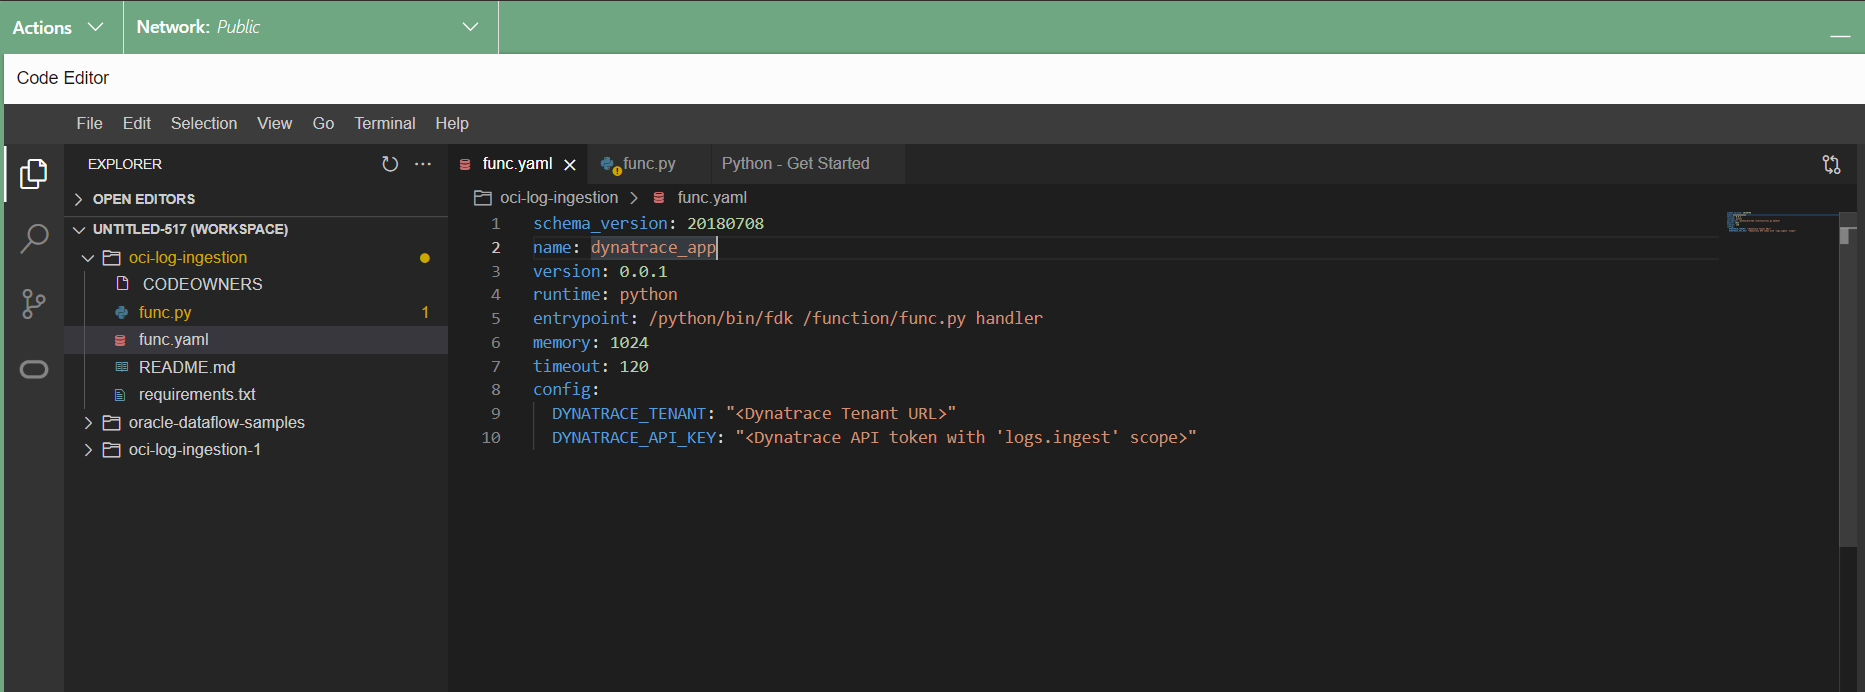
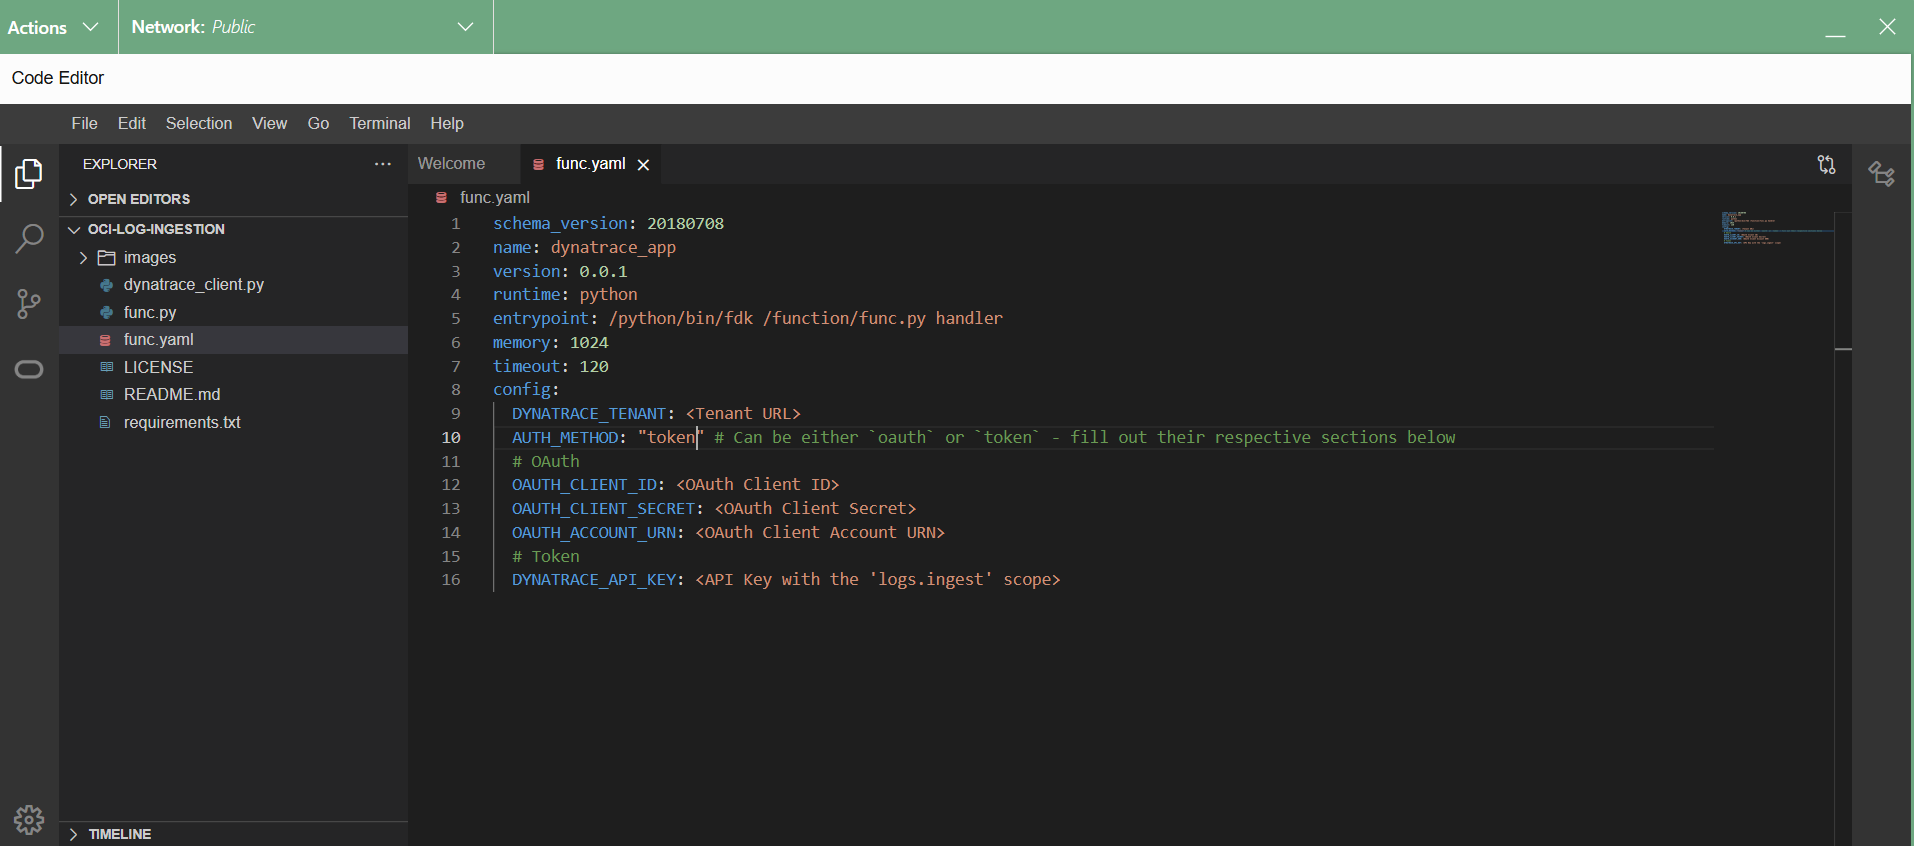
Update documentation & support the Dynatrace OAuth2 Client (#4)
* Add license

* remove codeowners

* Support using the Dyntrace OAuth client

* Change default auth method

* Documentation update

diff --git a/README.md b/README.md
@@ -2,10 +2,10 @@
 With the OCI Log ingest function, OCI users can stream their logs directly into Dynatrace for troubleshooting and root cause analysis using Davis® AI.  
 This OCI function was created to work alongside the Oracle Cloud Infrastructure extension found on the Dynatrace Hub.
 
-### Getting Started
+# Getting Started
 **Note:** These actions must be done by a OCI tenancy administrator using the Oracle Cloud Shell or Oracle Code Editor.
 
-**OCI logs**    
+## OCI logs    
 1. Login to the OCI portal and search for **Log Groups**
 ![Image 1](images/image.png)
 1. Select your compartment on the left side and click **Create Log Group** - A side panel will open.
@@ -18,10 +18,10 @@ This OCI function was created to work alongside the Oracle Cloud Infrastructure 
 ![Image 4](images/image-2.png)
 6. Click **Create custom log** or **Enable log** to begin sending logs to your log group.
 
-**OCI function**
+## OCI function
 1. In the OCI portal, navigate to Applications.
 ![Image 5](images/image-4.png)
-2. Select an existing application or click **Create Application** and give it a name.
+2. Select an existing application or click **Create Application** and give it a name, subnet and change the **Shape** to *GENERIC_ARM* then click on 'Create'
 ![alt text](images/image-16.png)
 3. Create a new OCI function within your application and give it a name. 
 4. We recommend using the Oracle Code Editor to create your custom function. 
@@ -30,15 +30,18 @@ This OCI function was created to work alongside the Oracle Cloud Infrastructure 
 ![Image 7](images/image-7.png)
 ![Image 8](images/image-9.png)
 
-6. Edit the `func.yaml` file, updating the `DYNATRACE_TENANT` and `DYNATRACE_API_KEY` environment variables with the url to your Dynatrace tenant and an api token with the `logs.ingest` scope.
-![Image 9](images/image-10.png)
+6. Edit the `func.yaml` file, updating the `DYNATRACE_TENANT` and variable with your Dynatrace tenant's URL. If you're using new Dynatrace then the you may need to replace 'apps' with 'live' in the tenant URL.  
+Ex: `https://<tenant id>.apps.dynatrace.com` should be `https://<tenant id>.live.dyntrace.com`
+    - If you're using token based authentication, set the  value of  `DYNATRACE_API_KEY` to an API token that has the `logs.ingest` scope.
+    - If you're using an OAuth2 Client for authentication change the `AUTH_METHOD` to `oauth` and enter your client_id, client_secret and URN. Please see the "Configuring an OAuth2 Client" section for more details on the requirements.
+![alt text](images/image-10.png)
 7. Follow the instructions on the **Getting started** page under your application. Use the cloned repository instead of the example function in the instructions. This can be done in the code editor's terminal instead of a separate cloud shell.
 ![Image 10](images/image-11.png) 
 8. After completeing the commands in the **Getting started** tab, you should see your image under the **Container registry** page.
 ![alt text](images/image-15.png)
 
 
-**OCI connector**
+## OCI connector
 1. In the OCI portal, search for **Connectors**
 2. Click **Create Connector**, give it a name and description.
 ![Image 11](images/image-12.png)
@@ -48,8 +51,38 @@ This OCI function was created to work alongside the Oracle Cloud Infrastructure 
 5. Under **Configure target** select your application and function created in the previous steps.
 ![Image 13](images/image-13.png)
 6. If you are prompted to create any policies, click on **Create**.
+![alt text](images/image-17.png)
 7. Finally click **Create** at the bottom of the panel, now you have a connector for streaming logs into Dynatrace. 
 ![Image 14](images/image-14.png)
 
-### View and analyze OCI logs 
+## Configuring an OAuth2 Client
+Using an OAuth2 client for the OCI functions will require you to add some additional policies to give the oauth token access to ingest metrics.
+
+1. Visit your Dynatrace tenant's **Account Management** portal and navigate to **Identity & access management** -> **Policy Management**. Click on the add policy button.
+![alt text](images/oauth/image.png)
+2. Give the policy a name like **Metric Ingest** and paste the following policy statement into the large text box `ALLOW storage:metrics:write;` and click on **Save**
+![alt text](images/oauth/image-1.png)
+3. Now navigate to the **Service Users** page under **Identity & access management** and click on **Add service user**
+![alt text](images/oauth/image-2.png)
+4. Give the user a name and optionally a description then click on **Save**
+![alt text](images/oauth/image-3.png)
+5. Click on the 3 vertical dots on the right side of the page and select **View Service User**
+![alt text](images/oauth/image-4.png)
+6. Copy the **Service user email** that is displayed on this page, you will need it for step 9.
+7. Click on the **+Permission** button and from the dropdown menu select the policy we created in step 2.
+![alt text](images/oauth/image-5.png)
+8. Under **Identity & access management** navigate to **OAuth clients** and click on **Create Client**
+![alt text](images/oauth/image-6.png)
+9. Paste the service user email address that you copied in setp 6 in the **Subject user email** text box then assign the user **Write metrics** (`storage:metrics:write`) permission.
+![alt text](images/oauth/image-7.png)
+![alt text](images/oauth/image-8.png)
+10. Finally click on **Create Client** at the bottom of the page and copy the `client_id`, `client_secret` and `urn` for use with the OCI function.  
+
+## Debugging 
+If you are running into issues getting the connector to work, go to the application and enable **Function Invocation Logs**.
+![alt text](images/image-12.png)
+Any errors will be logged here as well as some information about when the function has been run.
+![alt text](images/image-11.png)
+
+## View and analyze OCI logs 
 In the Dynatrace menu, go to **Logs and Events**, to look for OCI logs by filtering by `cloud.provider: oci`.
